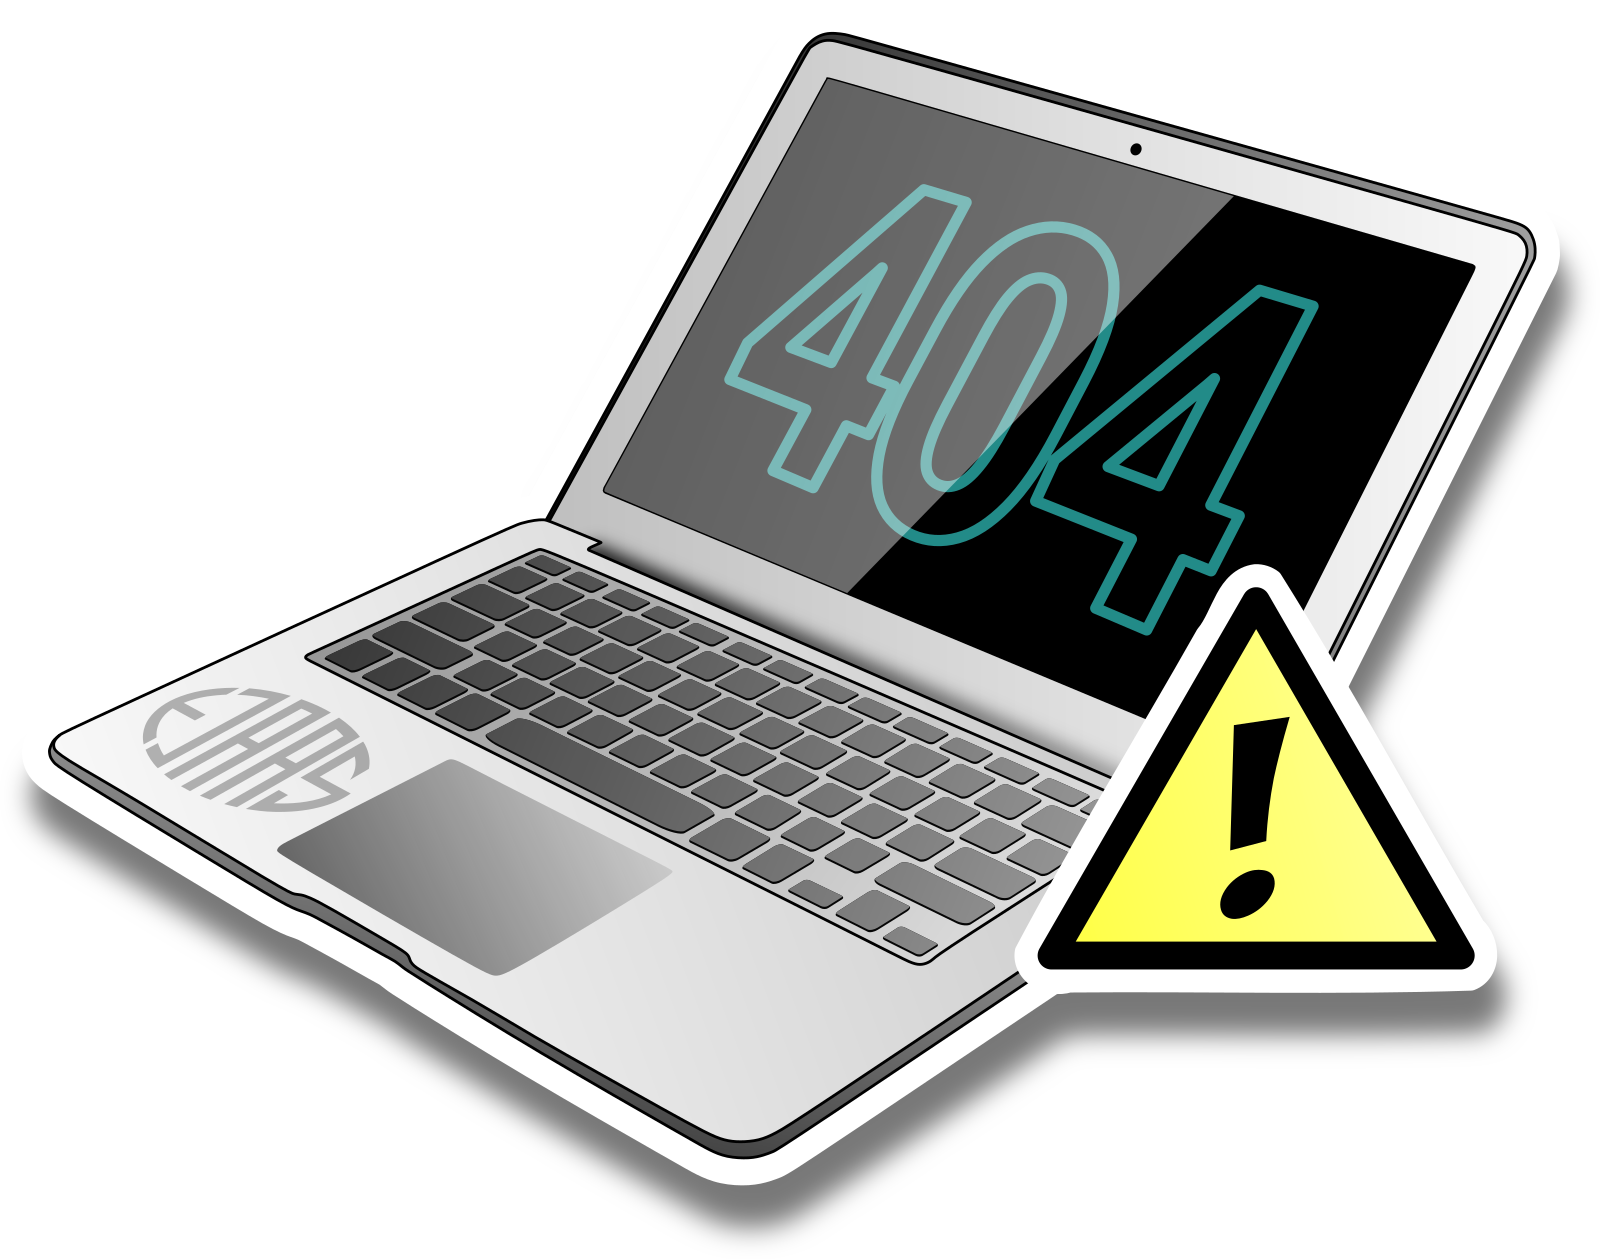
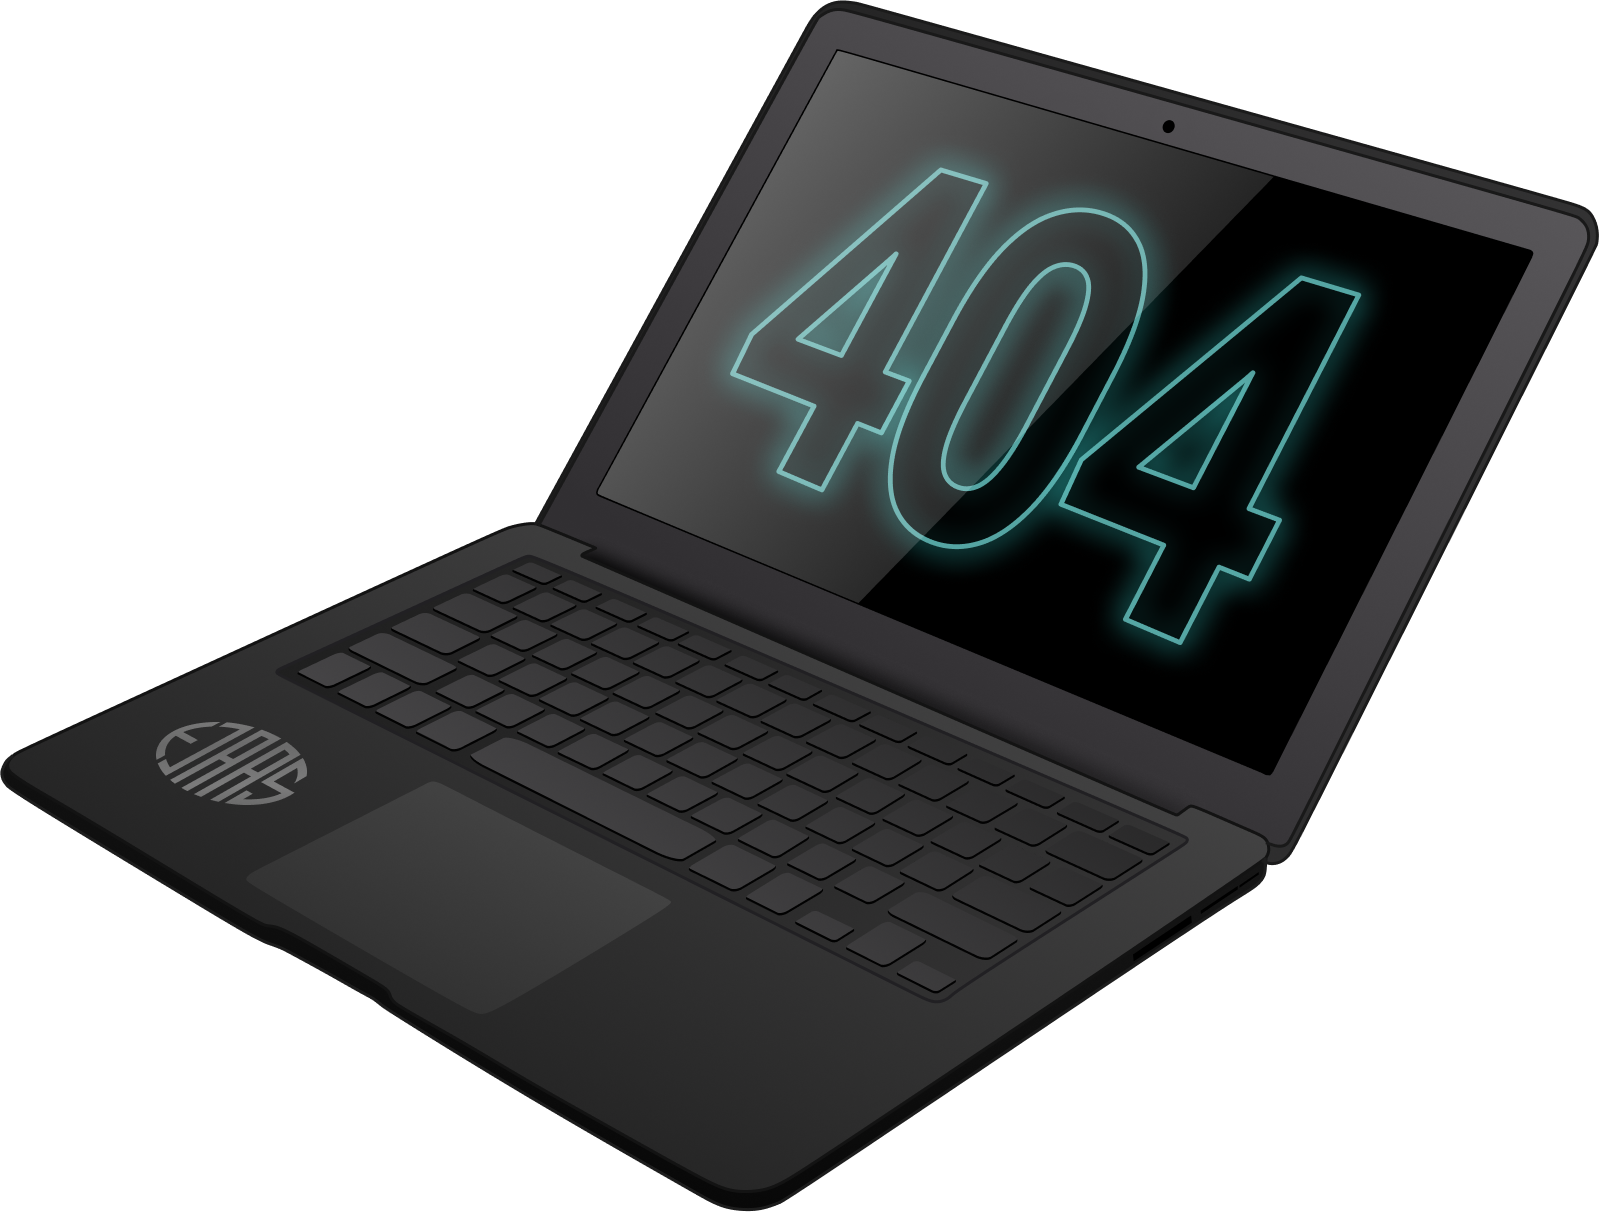
improve 404 page

diff --git a/src/i18n/translations/work.ts b/src/i18n/translations/work.ts
@@ -26,7 +26,7 @@ export const work = {
       'Salling Group Digital logo on a purple background',
     salling_group_employment_date: 'Oct 2021 - Apr 2022',
     salling_group_employment_description:
-      'Work in a dedicated frontend team to build and launch the føtex Home Delivery mobile app (Android/iOS) from ground up.\n\nHandling targeted development tasks for the føtex grocery home delivery website.\n\nWork in an Agile Scrum-inspired environment.',
+      'Work in a dedicated frontend team to build and launch the føtex Home Delivery mobile app (Android/iOS) from ground up.\n\nWork on targeted development tasks for the føtex grocery home delivery website.\n\nPart of an Agile Scrum-inspired environment.',
     visit_website: 'Visit website',
     learn_more_about_salling_group: 'Learn more about Salling Group',
     salling_group_company_description:
@@ -34,12 +34,12 @@ export const work = {
     about: 'About',
     passion_projects: 'Passion Projects',
     where_curiosity_meets_code:
-      'Where Curiosity Meets Code: Because being a developer is about more than work — sometimes it’s just about the joy of building, exploring new technologies, and experimenting with creative solutions.',
+      'Where curiosity meets code: Because being a developer is about more than work — sometimes it’s just about the joy of building, exploring new technologies, and experimenting with creative solutions.',
     a_tributee_to_bruce_willis: 'A Tribute to Bruce Willis',
     bruce_willis_image_alt: 'Screenshot from the Bruce Willis Rocks webapp',
     bruce_willis_date: 'May 2021',
     bruce_willis_description:
-      'This web application was created as a personal tribute to one of Hollywood’s most iconic movie stars: Bruce Willis.\n\n- Built using TypeScript, which provided valuable hands-on experience with the language.\n- Styled-components for styling\n- REST API for fetching data from The Movie Database (TMDB).',
+      'This web application was created as a personal tribute to one of Hollywood’s most iconic movie stars: Bruce Willis.\n\n- Built using TypeScript\n- Styled Components for styling\n- Data-fetching from The Movie Database (TMDB)’s REST API-endpoints',
     view_code_on_github: 'View code on GitHub',
     view_code_on: 'View code on',
     larsejaas_v1_subheadline: 'larsejaas.com version 1',
@@ -47,33 +47,34 @@ export const work = {
       'Various screenshots from the original version of the larsejaas.com website',
     lars_ejaas_v1_date: 'Feb 2021',
     lars_ejaas_com_description:
-      'The first version of my developer portfolio was created as a hands-on project to deepen my experience with React. I used Gatsby.js as the static site generator, taking advantage of its React Hydration capabilities to build a fast, SEO-optimized website.\n\nKey features included:\n- Internationalization\n- Progressive Web App (PWA)\n- Contact Form with Serverless Function: Implemented a serverless function to send an automated response to users and deliver a copy to my inbox.\n\nAt the time, Gatsby was a widely adopted framework backed by a robust community, making it the ideal choice for building and learning.',
+      'The first version of my developer portfolio was created as a hands-on project to deepen my experience with React. I used a static site generator, taking advantage of React’s Hydration capabilities to build a fast, SEO-optimized website.\n\nKey features included:\n- Internationalization\n- Progressive Web App (PWA)\n- Contact Form leveraging Serverless Functions to send an auto-response plus a copy to my inbox.',
   },
   da: {
     work_title: 'Arbejde',
     professional_developer_experience: 'Erhvervserfaring som udvikler',
     from_code_to_career:
-      'Fra kode til karriere: Min vej som professionel udvikler. Jeg skaber løsninger med fokus på at gøre en forskel.\n\nSe mine professionelle milepæle herunder:',
+      'Løsning af konkrete problemer med kode: Mit arbejde med at udvikle brugerfokuserede digitale produkter.\n\nGennemse mine nuværende og tidligere ansættelser nedenfor:',
     software_developer: 'Software udvikler',
     friggtech_hero_image_alt: 'Lysegrønt Frigg Tech logo på mørkeblå baggrund',
     friggtech_employment_date: 'Jan 2025 - nu',
-    friggtech_employment_description: 'Frontend Udvikler',
+    friggtech_employment_description:
+      'Bygge og vedligeholde komponenter til brug i brugergrænsefladen i Frigg Techs webapplikation.\n\nBidrage til udviklingen af nye funktioner og funktionaliteter i for webplatformen.\n\nSamarbejde med resten af teamet om at sikre en høj kvalitet i implementationer på tværs af produktet.',
     learn_more_about_friggtech: 'Få mere at vide om Frigg Tech',
     friggtech_company_description:
-      'Frigg Tech specialiserer sig i at skabe skræddersyede softwareløsninger til danske virksomheder. Den innovative platform sparer virksomheder tid ved at samle data fra flere kilder i én brugervenlig web-applikation, der sikrer, at alle de oplysninger, de har brug for, kun er få klik væk.\n\nVed at samle store mængder offentlige data om ejendomme, enkeltpersoner og virksomheder i en enkelt, intuitiv grænseflade eliminerer Frigg Tech besværet med at navigere i mange databaser.\n\nFrigg Techs løsning er designet til at opfylde de unikke behov for eksempelvis ejendomsmæglerkæder, bank- og realkreditinstitutter.\nDen skræddersyede platform integreres problemfrit i eksisterende arbejdsgange, hvilket forbedrer driftseffektiviteten og produktiviteten.',
+      'Frigg Tech specialiserer sig i at skabe skræddersyede softwareløsninger til danske virksomheder. Den innovative platform sparer tid for virksomheders medarbejdere ved at samle data fra flere kilder i én brugervenlig web-applikation. Det sikrer, at alle relevante oplysninger kun er få klik væk.\n\nVed at samle store mængder offentlige data om ejendomme, enkeltpersoner og virksomheder i en enkelt, intuitiv brugergrænseflade eliminerer Frigg Tech besværet med at navigere i mange databaser.\n\nFrigg Techs løsning er designet til at udfylde de unikke behov for eksempelvis ejendomsmæglerkæder, bank- og realkreditinstitutter.\nDen skræddersyede platform integreres problemfrit i eksisterende arbejdsgange, hvilket forbedrer driftseffektiviteten og produktiviteten.',
     frontend_developer: 'Frontend Udvikler',
     accuranker_grump_image_alt:
       'AccuRanker-maskotten Grump monteret på en stenmur',
     accuranker_employment_date: 'Maj 2022 - dec 2024',
     accuranker_employment_description:
-      'Udvikle brugerflade samt brugervendte funktioner og funktionalitet til AccuRankers SaaS-applikation i tæt samarbejde med resten af teamet.\n\nImplementere nye funktioner, rette fejl og modernisere og forbedre eksisterende kode i applikationen.\n\nDeltage i forskellige webudviklingsprojekter til virksomhedens hjemmeside på accuranker.com.',
+      'Udvikle brugervendte features og funktionalitet til brugerfladen i AccuRankers SaaS-applikation i tæt samarbejde med resten af teamet.\n\nImplementere nye funktioner, rette fejl samt modernisere og forbedre eksisterende kode i applikationen.\n\nDeltage i forskellige webudviklingsprojekter til virksomhedens hjemmeside på accuranker.com.',
     learn_more_about_accuranker: 'Få mere at vide om AccuRanker',
     accuranker_company_description:
       'AccuRanker er en dansk softwarevirksomhed med base i Aarhus, der hjælper virksomheder med at forstå og forbedre deres synlighed på søgemaskiner som Google.\n\nHovedproduktet er en web-applikation, der automatisk overvåger hvor godt hjemmesider rangerer for specifikke søgetermer, og leverer detaljerede analyser og indsigter.\n\nFirmaet opererer med et lille, dedikeret team af primært on-site medarbejdere på deres kontor i Aarhus, suppleret af flere eksterne teammedlemmer.\n\nPlatformen håndterer dataindsamling og analyse i stor skala og behandler millioner af søgeresultater dagligt for at levere nøjagtige SEO data i realtid til kunderne.',
     salling_group_image_alt: 'Salling Group Digital logo på en lilla baggrund',
     salling_group_employment_date: 'Okt 2021 - apr 2022',
     salling_group_employment_description:
-      'Del af et lille dedikeret frontend-team, der arbejdede i et Agilt Scrum-inspireret miljø.\n\nTeamet arbejdede primært på udviklingen af en mobilapp til føtex hjemmelevering (Android/iOS) og var samtidig med til at udvikle løsninger til føtex hjemmeleverings hjemmeside.\n\nEn moderne tech stack opbygget om et stort monorepo for bedre at kunne genbruge kode på tværs af platforme.',
+      'Del af et dedikeret frontend-team for at udvikle og lancere føtex hjemmelevering mobilappen (Android/iOS).\n\nArbejde med målrettede udviklingsopgaver på hjemmesiden for føtex hjemmelevering.\n\nDel af et Agile Scrum-inspireret miljø.',
     visit_website: 'Besøg hjemmeside',
     learn_more_about_salling_group: 'Få mere at vide om Salling Group',
     salling_group_company_description:
@@ -81,17 +82,19 @@ export const work = {
     about: 'Om',
     passion_projects: 'Projekter med passion',
     where_curiosity_meets_code:
-      'Hvor nysgerrighed møder kode: Selvom du arbejder som udvikler betyder det ikke, at du også kan kode bare for sjov! Udforsk nogle af mine personlige projekter nedenfor:',
+      'Hvor nysgerrighed møder kode: Fordi det at være udvikler handler om mere end arbejde - nogle gange handler det også om glæden ved at bygge, udforske nye teknologier og eksperimentere med kreative løsninger.',
     a_tributee_to_bruce_willis: 'En hyldest til Bruce Willis',
     bruce_willis_image_alt: 'Skærmbilleder fra Bruce Willis Rocks web-appen',
     bruce_willis_date: 'Maj 2021',
-    bruce_willis_description: '',
+    bruce_willis_description:
+      'Denne webapplikation blev skabt som en personlig hyldest til en af Hollywoods mest ikoniske filmstjerner: Bruce Willis.\n\n- Kodet i TypeScript\n- Stylet med Styled Components\n- Data leveret af The Movie Database (TMDB) via REST API endpoints',
     view_code_on_github: 'Se kode på GitHub',
     view_code_on: 'Se kode på',
     larsejaas_v1_subheadline: 'larsejaas.com version 1',
     lars_ejaas_v1_image_alt:
       'Forskellige skærmbilleder fra den oprindelige version af hjemmesiden larsejaas.com',
     lars_ejaas_v1_date: 'Feb 2021',
-    lars_ejaas_com_description: '',
+    lars_ejaas_com_description:
+      'Den første version af min udvikler portfolio blev skabt som et projekt for at øge min erfaring med React. Jeg brugte en statisk website-generator og udnyttede React’s hydration-funktionalitet til at bygge et hurtigt, SEO-optimeret websted.\n\nNøglefunktioner omfattede:\n- Internationalisering\n- Progressive Web App (PWA)\n- Kontaktformular, der udnytter Serverless Functions til at sende et autosvar til afsender samt en kopi til min indbakke',
   },
 } as const;

diff --git a/src/pages/_404.module.css b/src/pages/_404.module.css
@@ -4,4 +4,106 @@
   flex-direction: column;
   align-items: center;
   justify-content: center;
+  gap: 2rem;
+  margin-bottom: 2rem;
+  --brightness: 1;
+  & picture {
+    filter: drop-shadow(6px 18px 18px var(--system-shadow-5))
+      brightness(var(--brightness));
+  }
+
+  & a {
+    font-size: var(--font-size-3);
+    color: light-dark(var(--system-dark-300), var(--system-dark-100));
+    width: fit-content;
+    outline-offset: var(--outline-offset);
+    border-radius: 20px;
+    padding: 10px 48px;
+    text-underline-offset: 4px;
+    transition: color 300ms linear;
+    & :active,
+    &:focus-visible,
+    &:hover {
+      color: light-dark(var(--flirt-400), var(--flirt-200));
+    }
+  }
+
+  & .goBack {
+    & button {
+      cursor: pointer;
+      display: block;
+      color: light-dark(var(--system-dark-300), var(--system-light-200));
+      text-transform: uppercase;
+      font-weight: 600;
+      letter-spacing: 0.75px;
+      border: unset;
+      border-radius: 40px;
+      font-size: var(--font-size-2);
+      padding: 12px 48px;
+      --gradient-tone-1: var(--verdigris-100);
+      --gradient-tone-2: var(--verdigris-400);
+      --gradient-tone-3: var(--verdigris-500);
+      background: radial-gradient(
+          ellipse at 70% 10%,
+          color-mix(in hsl, var(--gradient-tone-1), transparent 70%) 0%,
+          color-mix(in hsl, var(--gradient-tone-2), transparent 70%) 30%,
+          color-mix(in hsl, var(--gradient-tone-3), transparent 70%) 100%
+        ),
+        linear-gradient(
+          to bottom,
+          var(--gradient-tone-1) 0%,
+          var(--gradient-tone-2) 20%,
+          var(--gradient-tone-3) 40%
+        );
+      background-size: 100% 400%;
+      outline-offset: var(--outline-offset);
+      transition: filter 0.3s ease-in-out;
+      &:hover,
+      &:focus-visible {
+        filter: brightness(1.1);
+      }
+      &:active {
+        filter: brightness(0.8);
+      }
+    }
+
+    & button ~ p {
+      margin-top: 2rem;
+    }
+    &:not([data-active='true']) {
+      display: none;
+    }
+    & p {
+      font-size: var(--font-size-3);
+      font-weight: 500;
+      color: light-dark(var(--system-dark-300), var(--system-dark-100));
+      white-space: pre;
+      text-align: center;
+    }
+  }
+}
+
+:global(:root) {
+  &[data-dark-mode='false'] {
+    .centerWrapper {
+      --brightness: 1.8;
+    }
+  }
+}
+
+.textWrapper {
+  max-width: min(100vw, 440px);
+  text-align: center;
+  & p {
+    font-size: var(--font-size-3);
+    font-weight: 500;
+    line-height: 1.5;
+    color: var(--system-dark-300);
+  }
+}
+
+@media (max-width: 768px) {
+  .floatingBalloons {
+    grid-row: 3;
+  }
 }

diff --git a/src/components/contact/contact.module.css b/src/components/contact/contact.module.css
@@ -104,7 +104,7 @@
   font-weight: 600;
   letter-spacing: 0.75px;
   border: solid 1px light-dark(var(--system-light-500), var(--system-light-500));
-  border-radius: var(--border-radius-sm);
+  border-radius: 20px;
   font-size: var(--font-size-2);
   --gradient-tone-1: var(--verdigris-100);
   --gradient-tone-2: var(--verdigris-400);
@@ -259,29 +259,38 @@
   resize: both;
   overflow: auto;
   min-height: 120px;
-  & h1, h2, h3, h4, h5 {
+  & h1,
+  h2,
+  h3,
+  h4,
+  h5 {
     font-weight: 600;
     line-height: 1.4em;
     margin-block-end: 0;
-  } 
+  }
   & h1 {
     font-size: var(--font-size-6);
   }
   & h2 {
     font-size: var(--font-size-5);
   }
-  & h3, h4, h5 {
+  & h3,
+  h4,
+  h5 {
     font-size: var(--font-size-4);
   }
   & pre {
-    background-color: light-dark(var(--system-light-500), var(--system-light-300-80));
+    background-color: light-dark(
+      var(--system-light-500),
+      var(--system-light-300-80)
+    );
     padding: 4px 8px;
     width: fit-content;
     margin: 0;
     border-radius: var(--border-radius-sm);
     font-size: 0.8125rem;
     font-weight: 500;
-    color:  var(--system-dark-300);
+    color: var(--system-dark-300);
     white-space: pre-wrap;
     & code {
       font-size: inherit;
@@ -289,7 +298,6 @@
       color: inherit;
     }
   }
-
 }
 .pellActionbar {
   display: flex;

diff --git a/src/i18n/translations/navigation.ts b/src/i18n/translations/navigation.ts
@@ -59,6 +59,11 @@ export const navigation = {
     github_label: 'Visit my GitHub profile',
     not_found_title: '404 - Page not found',
     not_found: 'Page not found',
+    the_page_you_are_looking_for:
+      "The page you're searching for has either been relocated, deleted, renamed, or may have never existed.",
+    go_back: 'Go Back',
+    or: 'or',
+    go_to_home: 'Go Home',
     tech_skills: 'Tech skills',
     next: 'Scroll to next news card',
     previous: 'Scroll to previous news card',
@@ -121,7 +126,12 @@ export const navigation = {
     bluesky_label: 'Besøg min Bluesky profil',
     github_label: 'Besøg min GitHub profil',
     not_found_title: '404 - Siden blev ikke fundet',
-    not_found: 'siden ikke fundet',
+    not_found: 'Siden blev ikke fundet',
+    the_page_you_are_looking_for:
+      'Siden, du leder efter, er enten blevet flyttet, slettet, omdøbt eller har måske aldrig eksisteret.',
+    go_back: 'Gå tilbage',
+    or: 'eller',
+    go_to_home: 'Gå hjem',
     tech_skills: 'Tekniske færdigheder',
     next: 'Scroll til det næste kort',
     previous: 'Scroll til det forrige kort',

diff --git a/src/env.d.ts b/src/env.d.ts
@@ -115,6 +115,8 @@ declare global {
     contactTextArea: HTMLTextAreaElement | null;
     writeToMe: HTMLFormElement | null;
     firstName: HTMLTableCellElement | null;
+    //404 page
+    goBack: HTMLDivElement | null;
     navigation: Navigation;
     onpagereveal?: (event: PageRevealEvent) => void;
     onpageswap?: (event: PageSwapEvent) => void;
